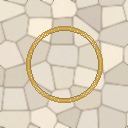
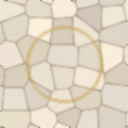
fix(arena): spawn rings only on real pads, softer floor-spawn

Changed region(s): [[0.1875, 0.1875, 0.8125, 0.8125]]

diff --git a/src/original-game/Engine/game-app.ts b/src/original-game/Engine/game-app.ts
@@ -5244,18 +5244,19 @@ export class GameApp {
         const isWrapPortal = isWrapPortalTile(x, y, this.arena.config);
         const isCenterLane = x === centerX || y === centerY;
         const isSideLane = x === sideColumn || x === farSideColumn || y === sideRow || y === farSideRow;
-        const isSpawnBay = (x <= 2 && y <= 2)
-          || (x >= arenaWidth - 3 && y <= 2)
-          || (x <= 2 && y >= arenaHeight - 3)
-          || (x >= arenaWidth - 3 && y >= arenaHeight - 3);
-        const floorVariant = isSpawnBay
+        // Only the exact spawn pads get the ring tile — full 3x3 corner bays
+        // used to stamp 9 rings and read as gold polka-dots (playtest G6g).
+        const isSpawnPad = Object.values(this.arena.config.spawnMap).some(
+          (spawn) => spawn.tile.x === x && spawn.tile.y === y,
+        );
+        const floorVariant = isSpawnPad
           ? "spawn"
           : isWrapPortal
             ? "portal"
             : isCenterLane || isSideLane
               ? "lane"
               : "base";
-        const floorSprite = isSpawnBay
+        const floorSprite = isSpawnPad
           ? this.assets.floor.spawn
           : isWrapPortal || isCenterLane || isSideLane
             ? this.assets.floor.lane

diff --git a/tarefas/claims/g6h-spawn-pad-only-DONE.md b/tarefas/claims/g6h-spawn-pad-only-DONE.md
@@ -1,0 +1,21 @@
+# G6h DONE — spawn pad-only rings (fix polka-dots)
+
+**Status:** complete (workspace; no commit/push)
+
+## Problem (from G6g playtest)
+
+Spawn floor sprite was painted on entire 3×3 corner bays → up to 36 gold rings on board.
+
+## Fix
+
+1. **Engine** (`game-app.ts`): `isSpawnPad` = exact tiles from `arena.config.spawnMap` only (not full bay).
+2. **Asset** (`floor-spawn.png`): softer translucent gold ring (still readable on the 4 pads).
+
+## Verify
+
+- Playwright re-shot: `_playtest-training.png` — ~4 rings (one per spawn), clean cobble field  
+- game-assets tests: **98 passed**
+
+## Out of scope
+
+commit/push